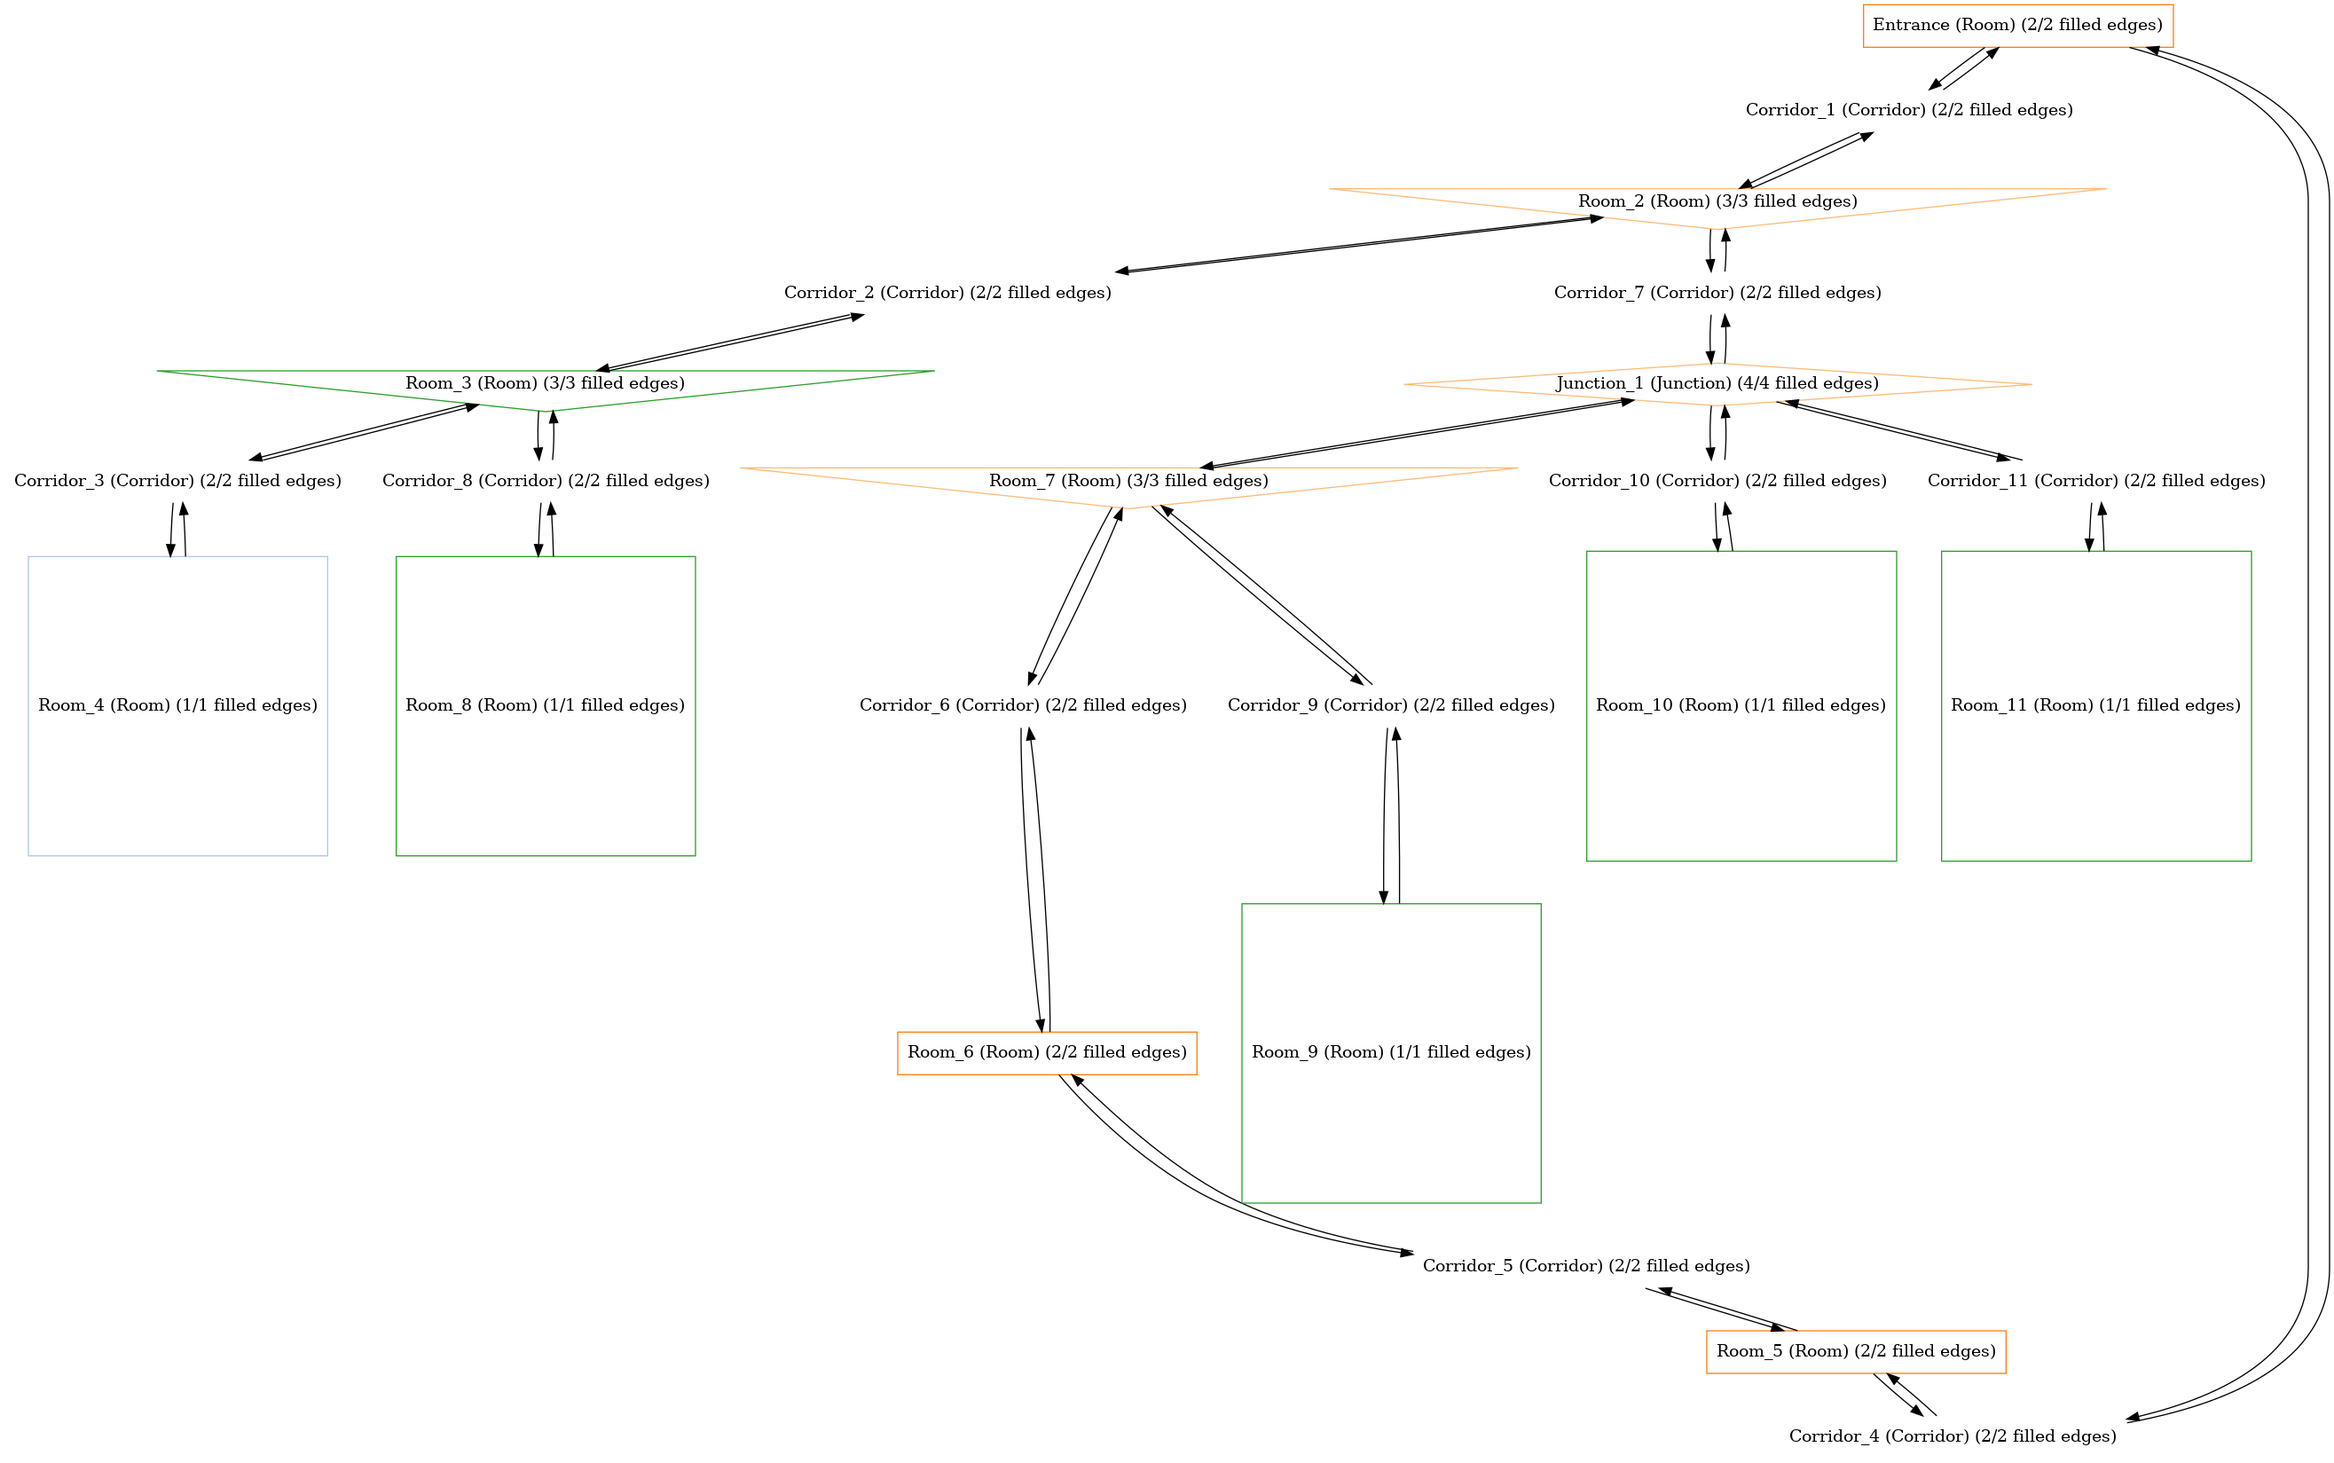
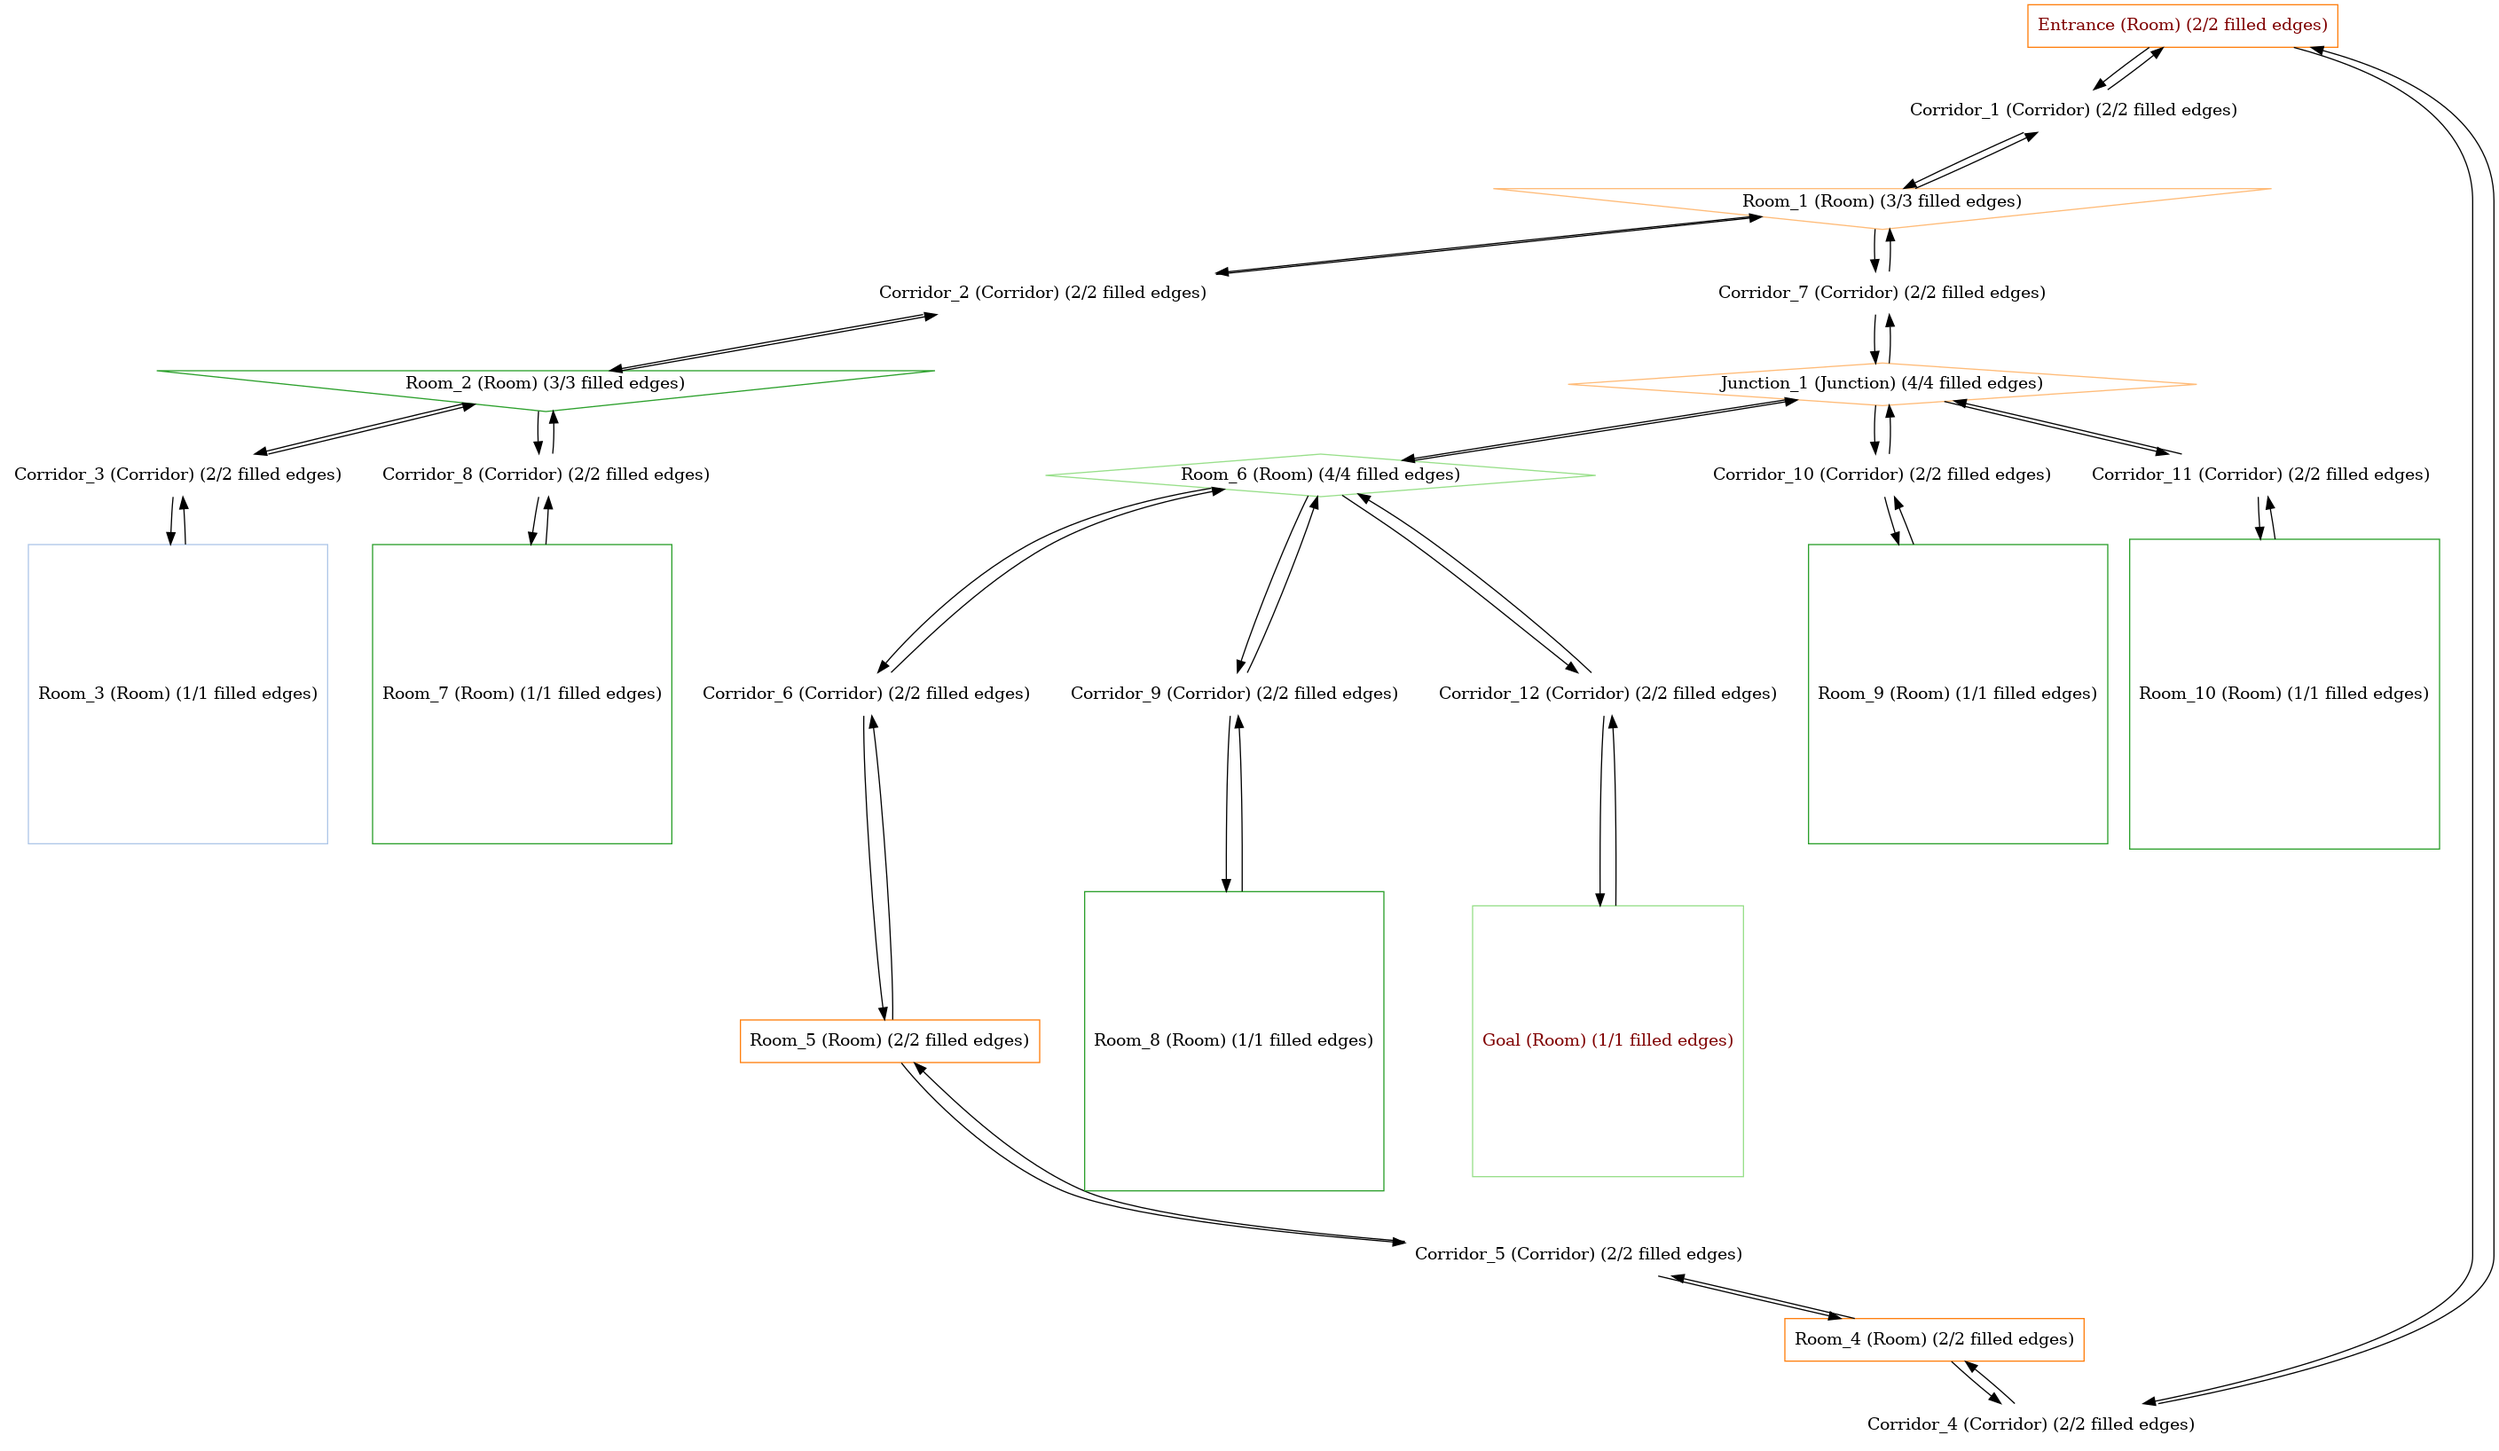
added goal node

diff --git a/scripts/dungeon_gen.py b/scripts/dungeon_gen.py
@@ -32,11 +32,31 @@
 #       inaccessible, just move them around
 import networkx as nx
 import numpy as np
+from typing import Dict
 
-from dungeon_net.generation.node import Room, Corridor, Junction
+from dungeon_net.generation.node import Room, Corridor, Junction, Node
 from dungeon_net.numerics.array_utils import normalize_matrix
 from dungeon_net.generation.dungeon import generate_chain_dungeon
 from dungeon_net.viz.pgv_nx import visualize_dungeon
+
+
+def count_node_types(chain_dict: Dict[str, nx.MultiDiGraph]) -> Dict[Node, int]:
+    # Describe the different kinds of chains
+    node_count = {"type": {}, "base": {}}
+    for k, chain in chain_dict.items():
+        for node in chain.nodes:
+            node_type = type(node)
+            if node_type in node_count["type"]:
+                node_count["type"][node_type] += 1
+            else:
+                node_count["type"][node_type] = 1
+            node_base_name = node.base_name
+            if node_base_name in node_count["base"]:
+                node_count["base"][node_base_name] += 1
+            else:
+                node_count["base"][node_base_name] = 1
+
+    return node_count
 
 
 def main():
@@ -75,7 +95,7 @@ def main():
         1: (3, 2),
         2: (3, 2),
     }
-    num_iter = 3
+    num_iter = 1
     dungeon, chain_dict = generate_chain_dungeon(num_iter, chain_lengths,
                                                  node_types, node_types,
                                                  chain_prob_matrix,
@@ -84,6 +104,8 @@ def main():
                                                  debug=True)
     print(f"\nDungeon: {dungeon}")
     visualize_dungeon(dungeon, f"../out/dungeon_{SEED}_{num_iter}.png")
+    node_type_count = count_node_types(chain_dict)
+    print(node_type_count)
 
 
 if __name__ == "__main__":

diff --git a/src/dungeon_net/generation/dungeon.py b/src/dungeon_net/generation/dungeon.py
@@ -30,10 +30,10 @@ def generate_chain_dungeon(num_iter: int, chain_lengths: Union[Tuple, Dict],
     # For finer control in generating dungeons, use the other generating
     # functions directly
     entrance = Room(2)
+    entrance.base_name = "Entrance"
     entrance.name = "Entrance"
     previous_nodes = [entrance]
     chain_num = 1
-    join_num = 1
     # Storage for generated dungeon
     dungeon = nx.MultiDiGraph()  # the full graph
     chain_dict = {}  # all the individual chains
@@ -110,6 +110,24 @@ def generate_chain_dungeon(num_iter: int, chain_lengths: Union[Tuple, Dict],
                                                            fill_self_loop_prob=fill_self_loop_prob,
                                                            debug=debug)
         chain_num += 1
+
+    # Add a goal node towards the end of the dungeon (penultimate chain)
+    goal_start_node = list(chain_dict[f"{num_iter-1}_C2"].nodes)[-1]
+    goal_start_node.num_edges += 1
+    if debug:
+        print(f"Adding goal to {goal_start_node.name}")
+    goal_chain, previous_nodes = generate_node_chain(2, chain_node_types,
+                                                     chain_prob_matrix,
+                                                     goal_start_node,
+                                                     previous_nodes,
+                                                     chain_num, debug=debug)
+    chain_num += 1
+
+    goal_node = list(goal_chain.nodes)[-1]
+    goal_node.base_name = "Goal"
+    goal_node.name = "Goal"
+    chain_dict["Goal"] = goal_chain
+    dungeon = nx.compose(dungeon, goal_chain)
 
     return dungeon, chain_dict
 

diff --git a/src/dungeon_net/generation/node_utils.py b/src/dungeon_net/generation/node_utils.py
@@ -3,13 +3,14 @@ from dungeon_net.generation.node import Node, Corridor
 from typing import List
 
 
-def new_node_name(node: Node, previous_nodes: List[Node]) -> str:
+def new_node_name(node: Node, previous_nodes: List[Node], node_base_name=None) -> str:
     # Generate a numeric name for the node based on how many previous types
     # of the node there were (always increasing so will always be unique
     # so long as previous_nodes is correctly updated)
-    node_base_name = node.classname()
+    if not node_base_name:
+        node_base_name = node.classname()
     node_count = len([n for n in previous_nodes
-                      if n.classname() == node_base_name])
+                      if n.base_name == node_base_name])
     node_name = f"{node_base_name}_{node_count+1}"
     return node_name
 

diff --git a/src/dungeon_net/generation/chain.py b/src/dungeon_net/generation/chain.py
@@ -72,13 +72,6 @@ def generate_node_chain(chain_length: int, node_types: List[Node],
             node.num_edges = 2
         # Add nodes with 'chain_num' data
         add_edge_to_chain(G, prev_node, node, chain_num)
-        # G.add_node(node, chain_num=chain_num)
-        # # for now, consider bidirectional movement across all nodes with
-        # # uniform weights
-        # G.add_edge(prev_node, node)
-        # G.add_edge(node, prev_node)
-        # prev_node.filled_edges += 1
-        # node.filled_edges += 1
         if debug:
             print(
                 f"Iter {current_chain_length} / {chain_length}: Connected new ({node}) to previous ({prev_node})")

diff --git a/src/dungeon_net/viz/pgv_nx.py b/src/dungeon_net/viz/pgv_nx.py
@@ -14,7 +14,8 @@ def visualize_dungeon(dungeon: nx.MultiDiGraph,
     attrs = {n: {
         "color": tabcmapper(i, cmap=cmap, mod=cmap_mod),
         "shape": choose_node_shape(n),
-        "style": choose_node_style(n)
+        "style": choose_node_style(n),
+        "fontcolor": "#800000" if n.name in ["Entrance", "Goal"] else ""
     }
         for n, i in dungeon.nodes(data="chain_num")}
     nx.set_node_attributes(dungeon, attrs)

diff --git a/src/dungeon_net/generation/node.py b/src/dungeon_net/generation/node.py
@@ -7,6 +7,7 @@ class Node:
     def __init__(self, num_edges: int) -> None:
         self.num_edges = num_edges
         self.filled_edges = 0  # counts how many edges have been connected
+        self.base_name = self.classname()
         self.name = ""
         # maybe name edges and check if locked here
 
